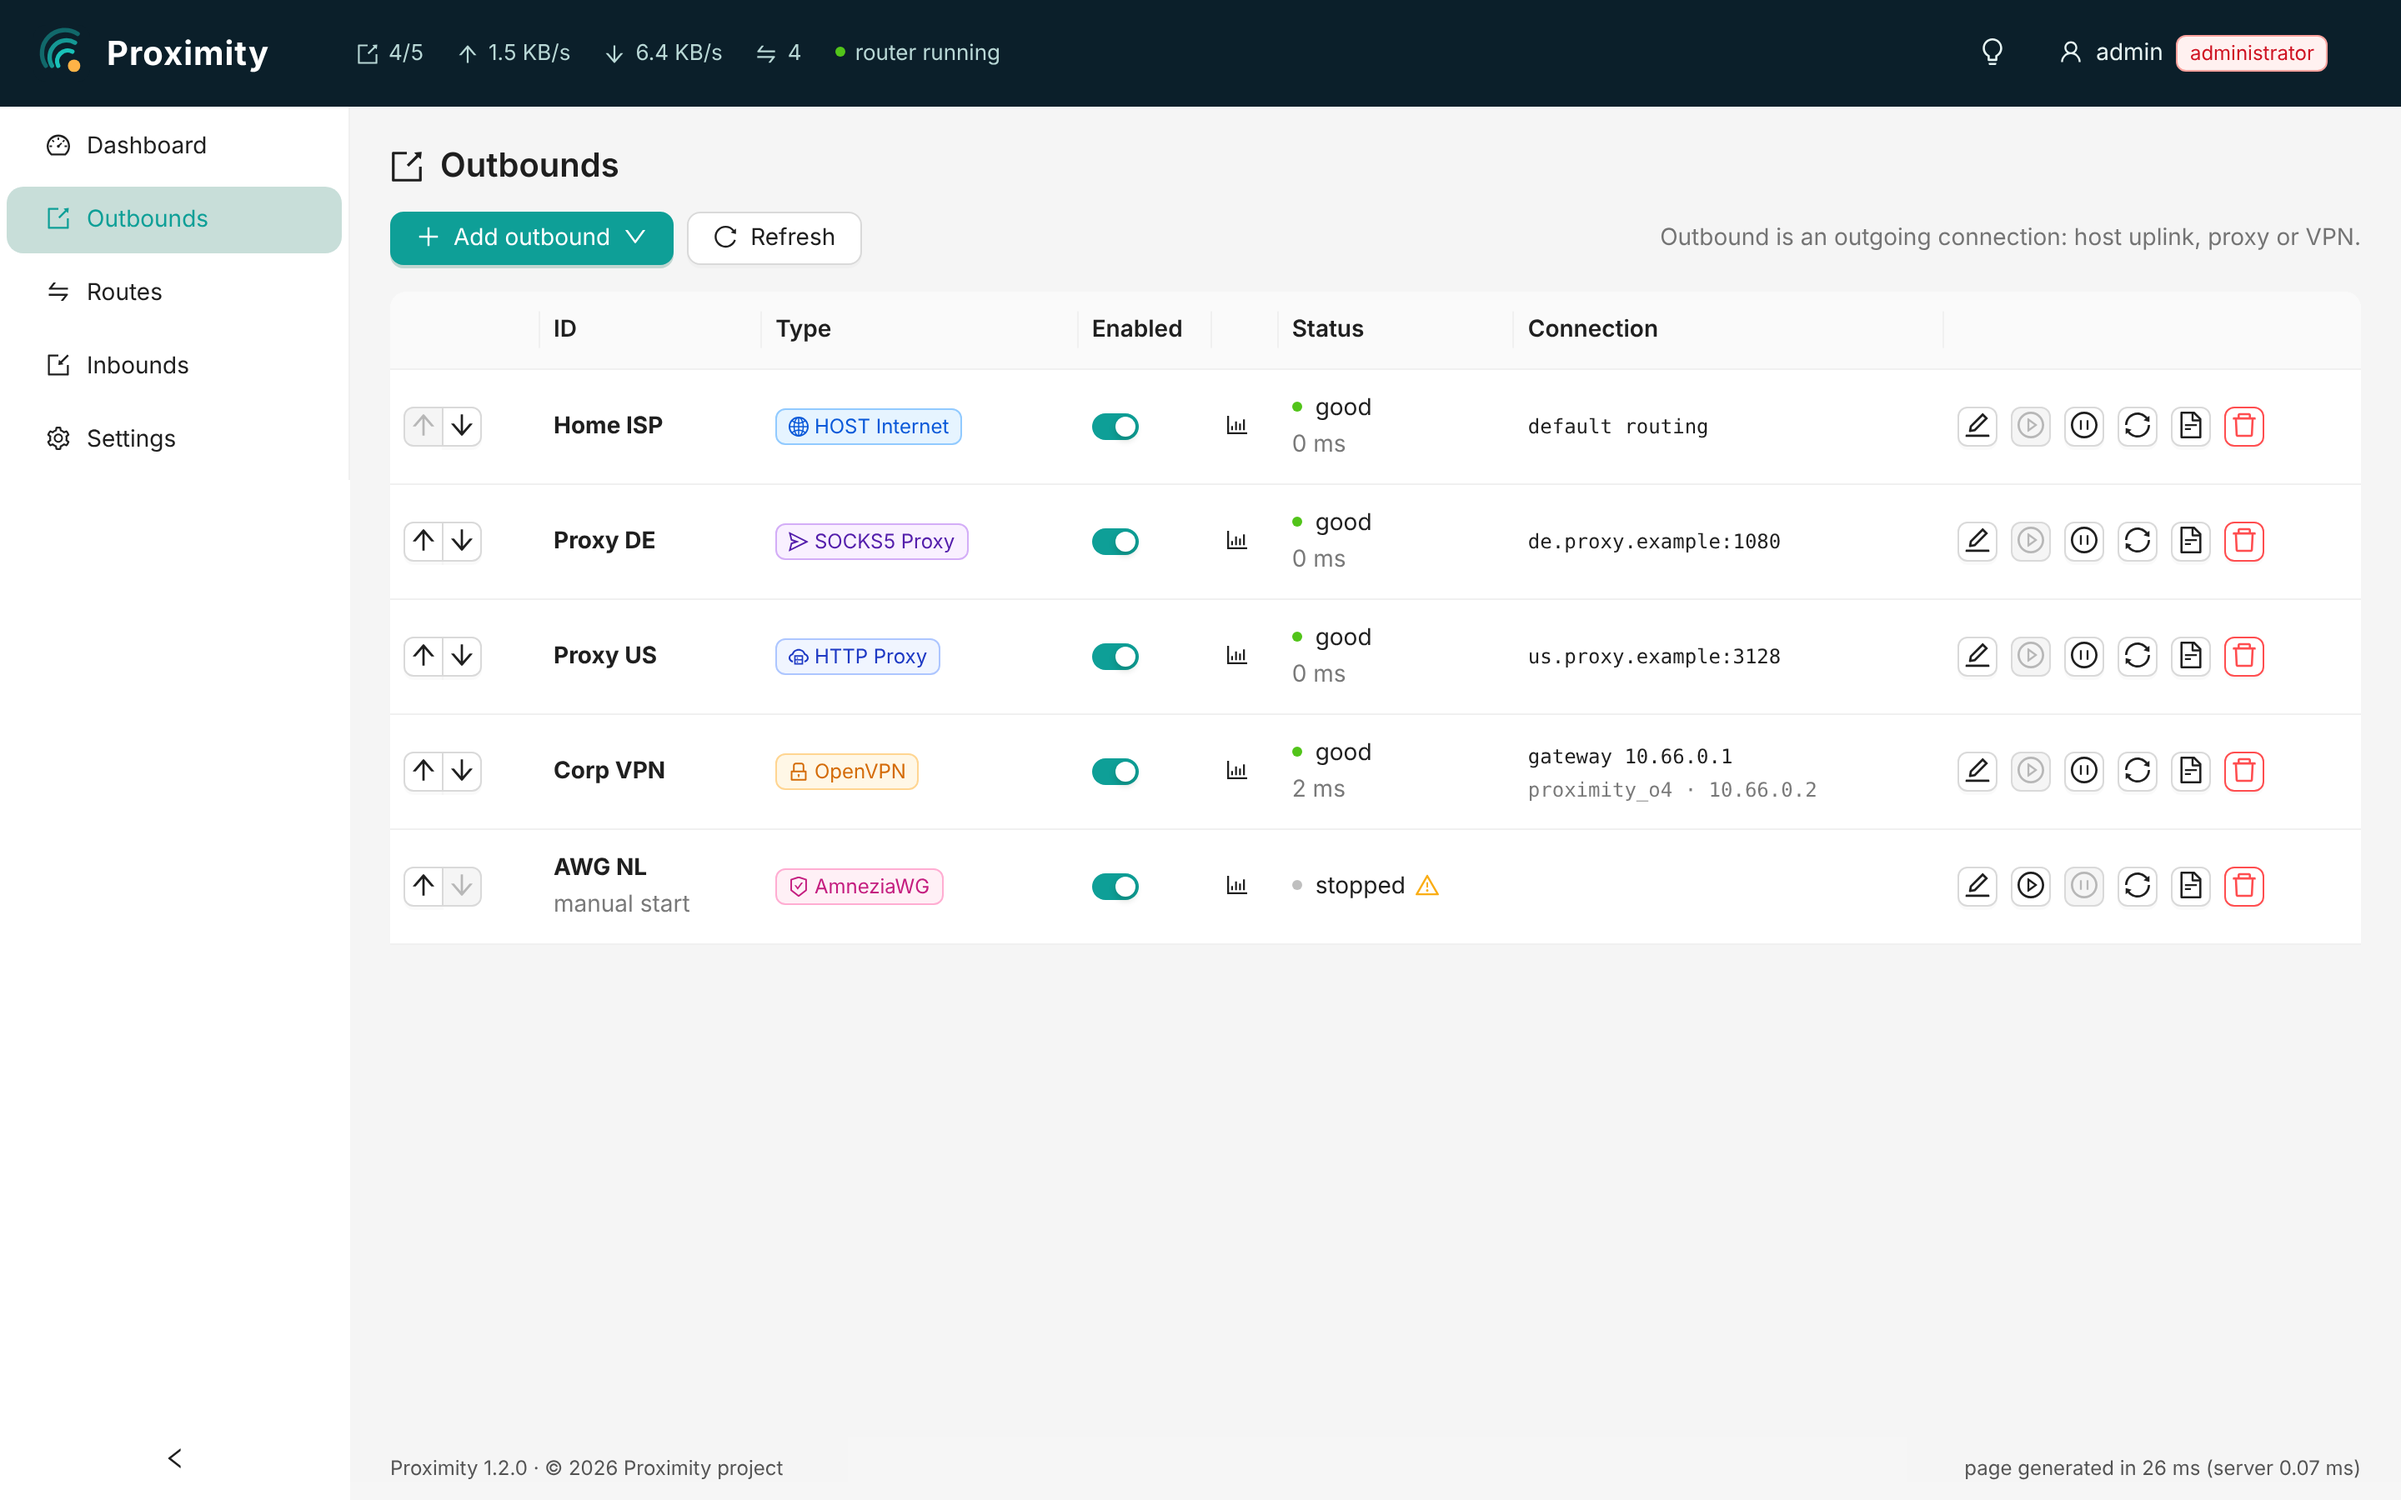
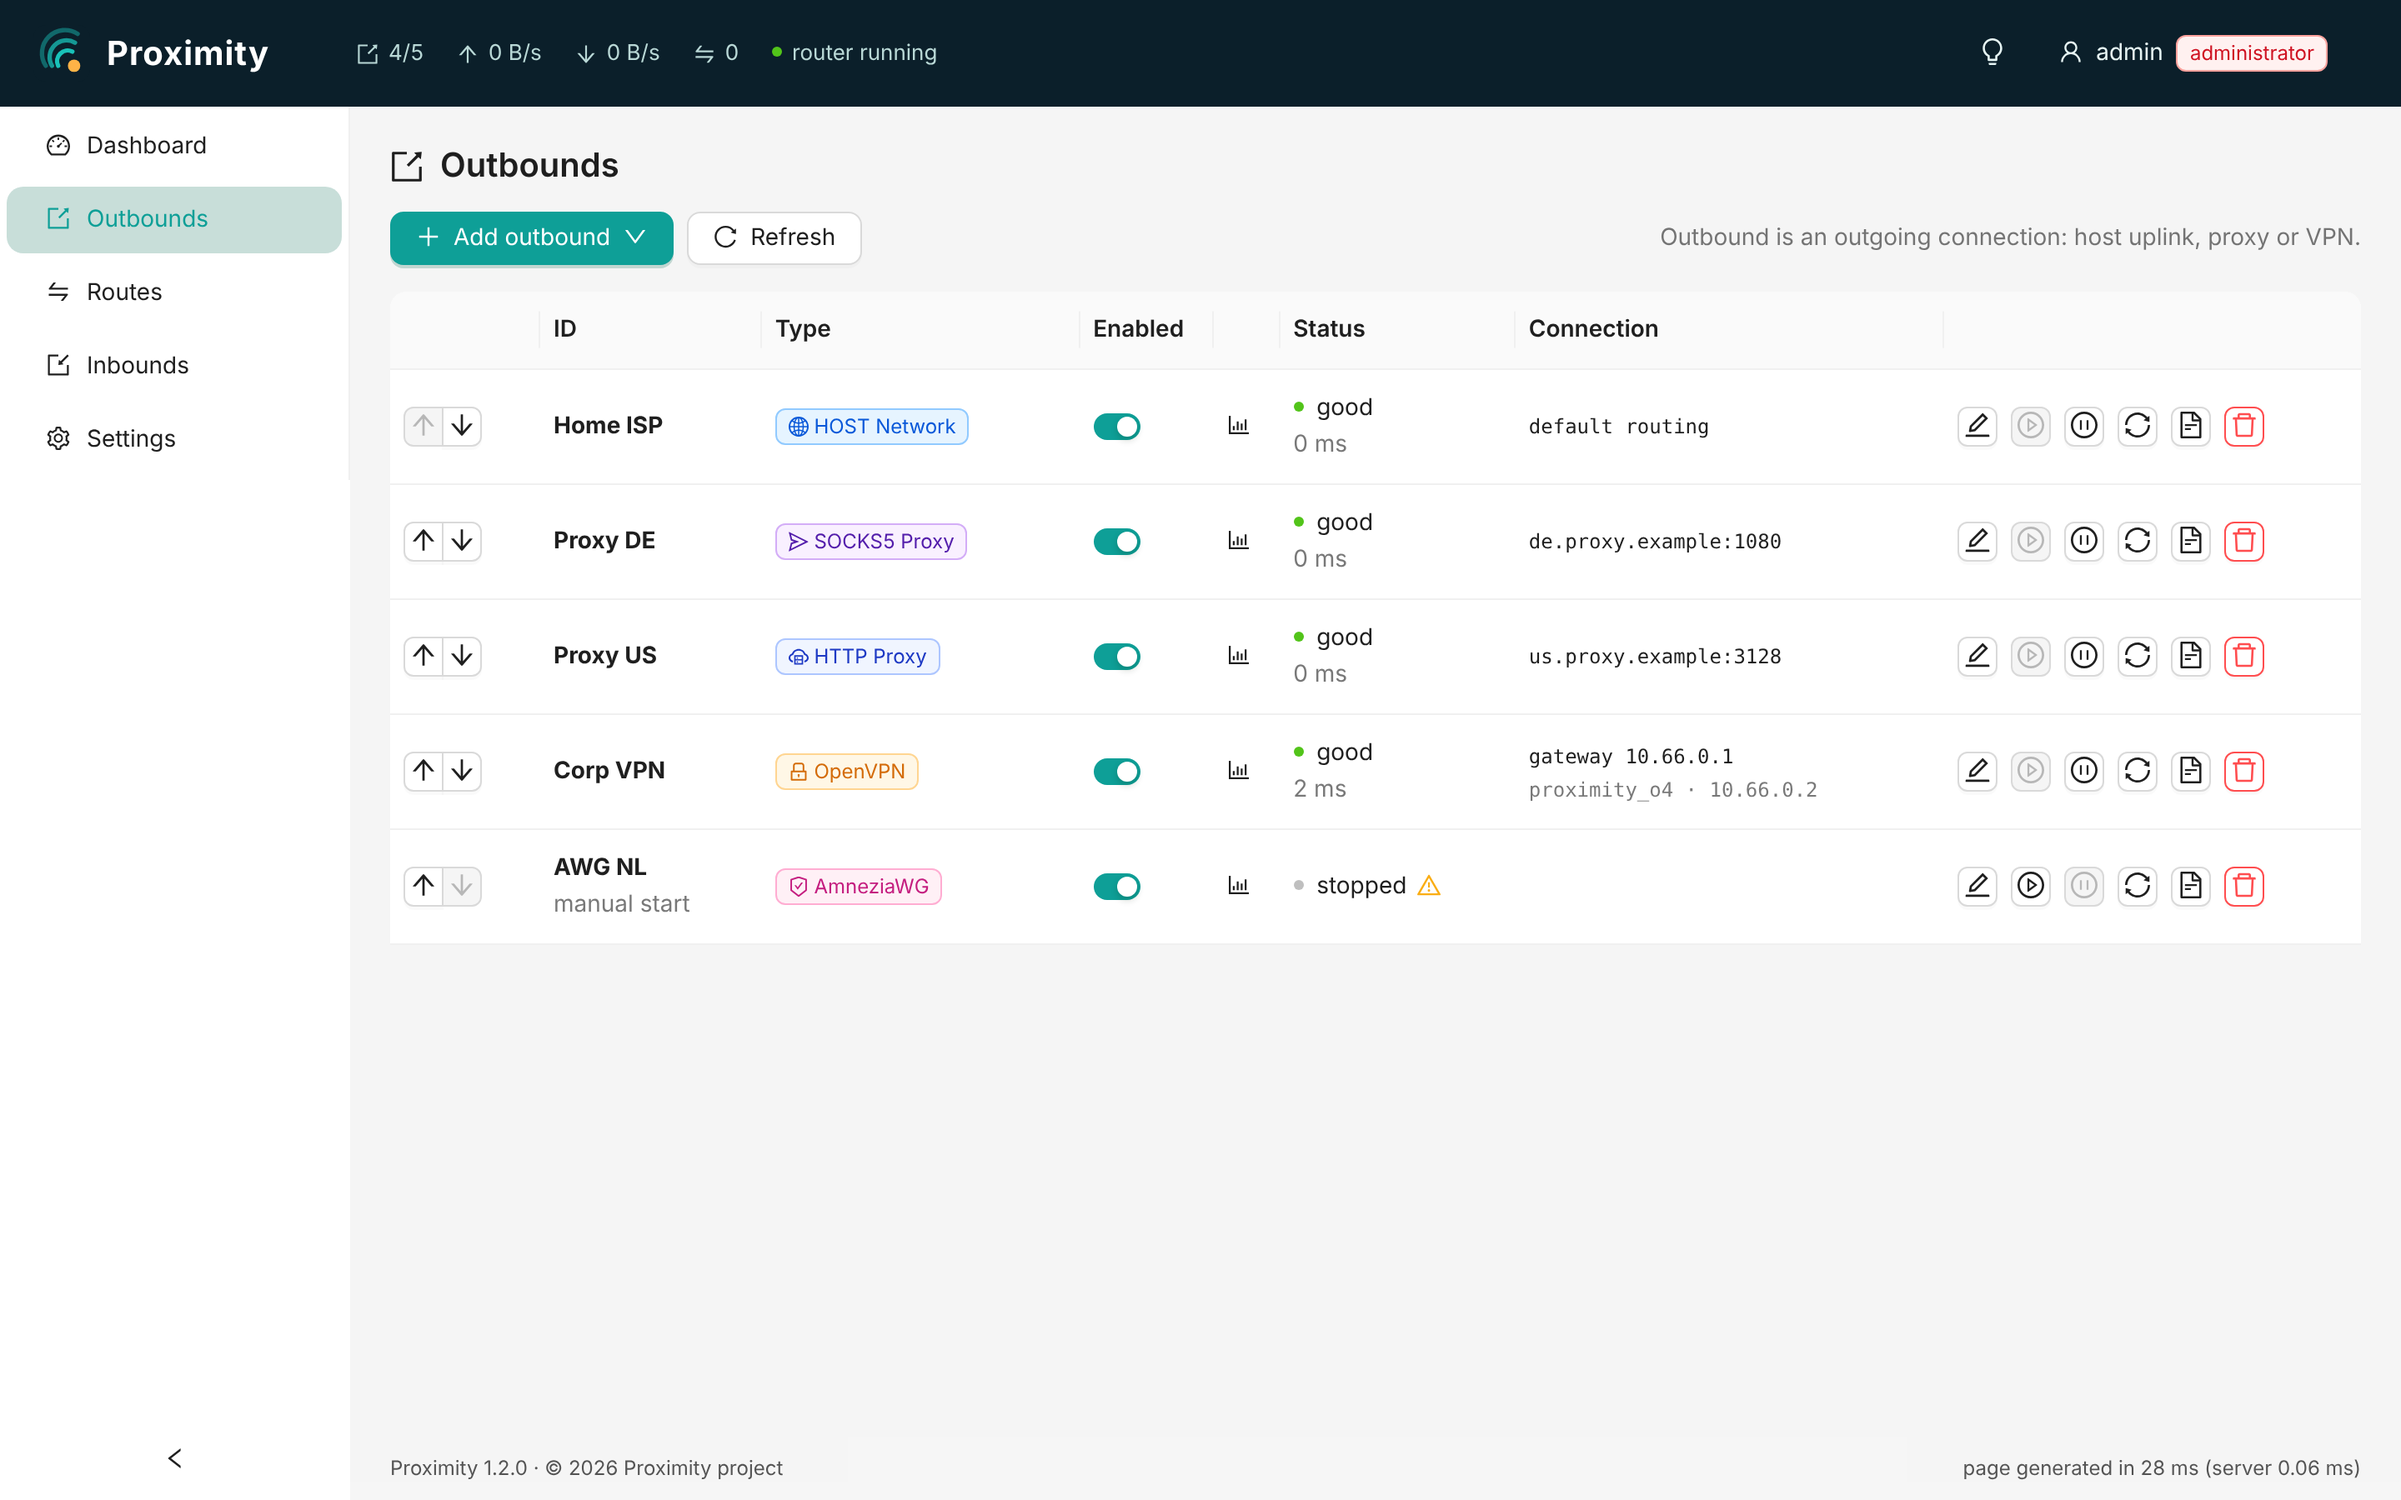
Rename the HOST Internet outbound type to HOST Network
Show the host uplink outbound as HOST Network in the UI and docs, and
call the inbound @host option the host network connection. Keep
"Internet" where it means destination servers (connection map) or
Internet access. Refresh the affected screenshots.

diff --git a/web/src/views/InboundDialog.vue b/web/src/views/InboundDialog.vue
@@ -285,7 +285,7 @@ const form = reactive({})
 const title = computed(() => saved.value ? `Edit ${inboundLabels[props.kind]} inbound '${saved.value}'` : `Add ${inboundLabels[props.kind]} inbound`)
 const outboundOptions = computed(() => [
   { value: '@router', label: 'Router — routes decide' },
-  { value: '@host', label: 'Host — host Internet connection' },
+  { value: '@host', label: 'Host — host network connection' },
   ...props.outbounds.map((item) => ({ value: item.id, label: item.enabled ? item.id : `${item.id} (disabled)` }))
 ])
 const otpLink = computed(() => `otpauth://totp/Proximity:${encodeURIComponent(form.id || saved.value || 'OpenVPN')}?secret=${String(form.openvpn.otp_key).replace(/[\s=-]/g, '')}&issuer=Proximity`)

diff --git a/web/src/format.js b/web/src/format.js
@@ -32,7 +32,7 @@ export function duration(seconds) {
   return `${minutes}m ${seconds % 60}s`
 }
 
-export const typeLabels = { host: 'HOST Internet', socks5: 'SOCKS5 Proxy', http: 'HTTP Proxy', openvpn: 'OpenVPN', amneziawg: 'AmneziaWG' }
+export const typeLabels = { host: 'HOST Network', socks5: 'SOCKS5 Proxy', http: 'HTTP Proxy', openvpn: 'OpenVPN', amneziawg: 'AmneziaWG' }
 export const typeColors = { host: 'blue', socks5: 'purple', http: 'geekblue', openvpn: 'orange', amneziawg: 'magenta' }
 export const inboundLabels = { socks5: 'SOCKS5', openvpn: 'OpenVPN' }
 export const inboundColors = { socks5: 'purple', openvpn: 'orange' }

diff --git a/README.md b/README.md
@@ -71,7 +71,7 @@ port **8899**.
 
 | Area | What you get |
 |---|---|
-| 🌐 **Outbounds** | HOST Internet (default route or a specific interface/gateway), SOCKS5 (auth, TLS, UDP relay), HTTP proxy (separate HTTPS/FTP servers, TLS), OpenVPN (login, password, TOTP one-time codes, private key password), AmneziaWG (`.conf` upload, `vpn://` key import, QR code from an image) |
+| 🌐 **Outbounds** | HOST Network (default route or a specific interface/gateway), SOCKS5 (auth, TLS, UDP relay), HTTP proxy (separate HTTPS/FTP servers, TLS), OpenVPN (login, password, TOTP one-time codes, private key password), AmneziaWG (`.conf` upload, `vpn://` key import, QR code from an image) |
 | 🔀 **Fallbacks** | Proxy groups of outbounds in priority order (bottom of the Routes page): either "first outbound that Proximity sees as good" or a mihomo health check by URL |
 | 🧭 **Routes** | 15 mihomo directives, editor with syntax highlighting (domains, subdomains, IPs, masks, ports, comments), load/save/sort of the lists, automatic normalization (URLs → domains, IDN → punycode, `IP:port` → `AND` rule, masks), `#` comments, overlap and duplicate warnings, up/down ordering |
 | 📥 **Inbounds** | SOCKS5 proxy servers and OpenVPN servers on ports 7800–7898 with their own users, optional anonymous access, TLS / TOTP, generated keys and certificates, one-click client configuration export; traffic goes to the host connection, to the routes or to a chosen outbound |
@@ -191,7 +191,7 @@ flowchart LR
     Core -- "generates config,<br/>reads /connections and /logs" --> Mihomo
     Core -- "starts, answers prompts,<br/>monitors" --> OVPN
     Core -- "starts, configures,<br/>monitors" --> AWG
-    Mihomo -- "HOST Internet" --> ISP(("ISP"))
+    Mihomo -- "HOST Network" --> ISP(("ISP"))
     Mihomo -- "SOCKS5 / HTTP" --> Proxy(("Proxy servers"))
     Mihomo -- "routing-mark" --> OVPN --> VPN1(("OpenVPN server"))
     Mihomo -- "routing-mark" --> AWG --> VPN2(("AmneziaWG server"))
@@ -201,7 +201,7 @@ How each outbound type is connected to mihomo:
 
 | Outbound | mihomo side |
 |---|---|
-| HOST Internet | proxy `direct`; for a specific interface — `interface-name`, with a gateway — `routing-mark` |
+| HOST Network | proxy `direct`; for a specific interface — `interface-name`, with a gateway — `routing-mark` |
 | SOCKS5 Proxy | proxy `socks5` |
 | HTTP Proxy | proxy `http` (CONNECT tunnel); separate HTTPS/FTP servers become extra proxies selected by port 443/21 |
 | OpenVPN | `openvpn` process on interface `proximity_o<N>` + `direct` with `routing-mark` |

diff --git a/docs/user-guide.md b/docs/user-guide.md
@@ -10,7 +10,7 @@ A tour of every page of the Proximity web UI (<http://localhost:8899>).
 - [Dashboard](#dashboard)
   - [Connection map](#connection-map)
 - [Outbounds](#outbounds)
-  - [HOST Internet](#host-internet)
+  - [HOST Network](#host-network)
   - [SOCKS5 Proxy](#socks5-proxy)
   - [HTTP Proxy](#http-proxy)
   - [OpenVPN](#openvpn)
@@ -169,7 +169,7 @@ Every outbound dialog has a **General** tab:
 
 All fields are validated before saving. Changes are applied immediately.
 
-### HOST Internet
+### HOST Network
 
 ![HOST outbound](images/outbound-host.png)
 
@@ -349,7 +349,7 @@ keeps its state after a container restart.
 | Reconnection timeout, seconds | Default 10. Pause between attempts |
 | Collect statistics | Count upload and download traffic of the inbound |
 | Port number | Unique, `7800…7898` (the range published by the Docker files); empty → the first free port |
-| Outbound | **Router** — the routes decide, like for the proxy port; **Host** — the host Internet connection, routes are skipped; or one of the outbounds — everything goes there |
+| Outbound | **Router** — the routes decide, like for the proxy port; **Host** — the host network connection, routes are skipped; or one of the outbounds — everything goes there |
 
 An inbound does not start (state *failed* with the reason) when its outbound is disabled
 or deleted, or when anonymous connections are off and there is no enabled user.

diff --git a/docs/getting-started.md b/docs/getting-started.md
@@ -75,7 +75,7 @@ Go to **Outbounds → Add outbound** and choose a type.
 
 | You have… | Add outbound | Key fields |
 |---|---|---|
-| A normal internet connection | **HOST Internet** | *Outgoing connection*: default host routing, or a specific interface (+ gateway) |
+| A normal internet connection | **HOST Network** | *Outgoing connection*: default host routing, or a specific interface (+ gateway) |
 | A SOCKS5 server | **SOCKS5 Proxy** | server, port (1080), optional user/password, TLS, UDP relay |
 | An HTTP proxy (Squid etc.) | **HTTP Proxy** | server, port (3128); optionally separate HTTPS and FTP servers |
 | An `.ovpn` file | **OpenVPN** | upload/paste the file, user, password, optional TOTP key |

diff --git a/docs/api.md b/docs/api.md
@@ -143,7 +143,7 @@ stopped by a user, by the router stop, or not started because `autostart` is off
 Inbound object: `{id, type, enabled, autostart, attempts, reconnect_timeout, statistics,
 port, outbound, anonymous,
 users: [{enabled, name, password}]}` plus one block by `type`. `outbound` is `@router`
-(routes decide), `@host` (host Internet connection) or an outbound ID.
+(routes decide), `@host` (host network connection) or an outbound ID.
 
 | Type | Block |
 |---|---|
